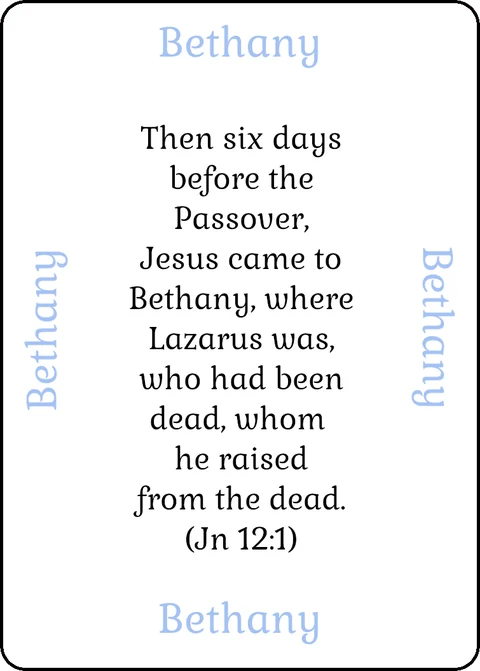
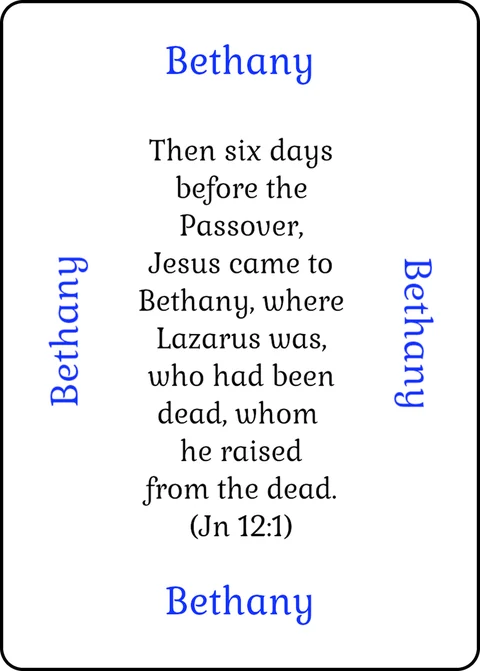
Journeys with Jesus: expansion button uses its product id; replace the Bethany 1 card (#47)
The expansion pack's button now names its Shopify product (8148407681173), so
it no longer depends on looking the product up from a variant. The Bethany 1
picture is replaced; the build script takes replacement pictures from
journeys-with-jesus/tools/overrides.

Claude-Session: https://claude.ai/code/session_01Pb2JNFNt3qrLFde2zWudwa

diff --git a/journeys-with-jesus/index.html b/journeys-with-jesus/index.html
@@ -262,7 +262,7 @@
         <p>10 more Journey Cards and 26 more Place Cards. <span class="pp-extra-price"><strong>$12.99</strong></span></p>
         <div class="jj-exp-actions">
           <!-- The button below is a Shopify button when it loads, so the game and the expansion pack share one cart; the plain checkout link is the fallback. -->
-          <div class="pp-shopify" data-state="live" data-variant-id="44097626865813" data-button-text="Buy Expansion Pack"><a class="pp-btn pp-btn-primary" href="https://bd30ce-2.myshopify.com/cart/44097626865813:1?channel=buy_button">Buy from the SDG shop</a></div>
+          <div class="pp-shopify" data-state="live" data-product-id="8148407681173" data-button-text="Buy Expansion Pack"><a class="pp-btn pp-btn-primary" href="https://bd30ce-2.myshopify.com/cart/44097626865813:1?channel=buy_button">Buy from the SDG shop</a></div>
           <a href="https://www.thegamecrafter.com/games/jwj-gospel-of-john-expansion">or order from The Game Crafter</a>
         </div>
       </div>

diff --git a/tests/product-pages.test.js b/tests/product-pages.test.js
@@ -117,6 +117,6 @@ for (const page of PAGES) {
 
 test('journeys-with-jesus/index.html: the expansion pack is a Shopify button in the same cart as the game, with a plain checkout link as fallback', () => {
   const html = read('journeys-with-jesus/index.html');
-  assert.match(html, /class="pp-shopify" data-state="live" data-variant-id="44097626865813"[^>]*><a [^>]*href="https:\/\/bd30ce-2\.myshopify\.com\/cart\/44097626865813:1\?channel=buy_button"/);
-  assert.ok(!/data-product-id/.test(html), 'a spot with only a variant must not also name the game as its product');
+  assert.match(html, /class="pp-shopify" data-state="live" data-product-id="8148407681173"[^>]*><a [^>]*href="https:\/\/bd30ce-2\.myshopify\.com\/cart\/44097626865813:1\?channel=buy_button"/);
+  assert.equal((html.match(/data-product-id="8148407681173"/g) || []).length, 1, 'the expansion pack has one button, with its own product');
 });

diff --git a/journeys-with-jesus/tools/build-cards.py b/journeys-with-jesus/tools/build-cards.py
@@ -53,6 +53,8 @@ def split_places(token):
             if tail: return [PLACES[key]] + tail
     return None
 
+OVERRIDES = os.path.join(os.path.dirname(os.path.abspath(__file__)), 'overrides')   # pictures here win over the same file name in --src
+
 def slug(s): return re.sub(r'[^a-z0-9]+', '-', s.lower()).strip('-')
 
 def outlined(im):
@@ -105,6 +107,7 @@ def entries(src):
     out, seen = [], {}
     for n in names:
         path = os.path.join(src, n + '.png')
+        if os.path.exists(os.path.join(OVERRIDES, n + '.png')): path = os.path.join(OVERRIDES, n + '.png')   # a picture replaced after the originals were uploaded
         if n in TOKENS:
             out.append(dict(id='token-' + slug(TOKENS[n]), group='tokens', name='Scripture Memory Token: ' + TOKENS[n], copies=TOKEN_COPIES, file=path, kind='token',
                             alt=f'A gold hexagonal Scripture Memory Token with the verse {TOKENS[n]}.')); continue
